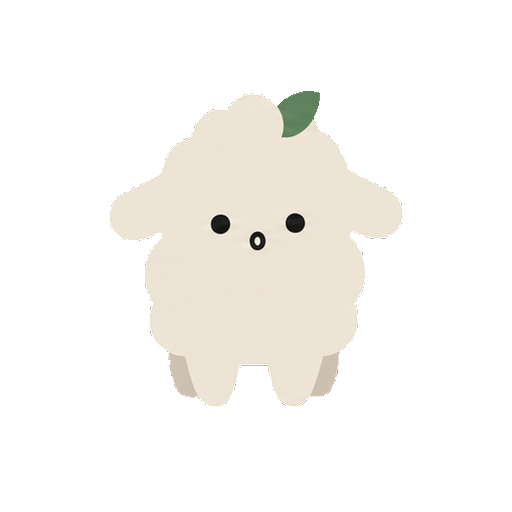
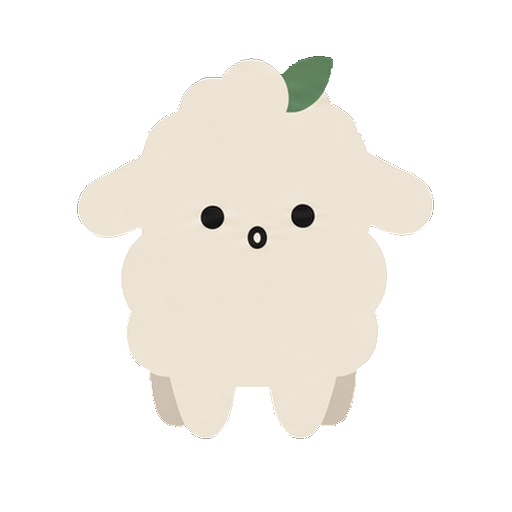
小綿助 v3 第二批：接上 Codex 交件的 10 個動作，21 個動作全部到齊
- 通知與操作：LINE 抱對話框、喝水、伸懶腰、服藥拍鬧鐘、分心望遠鏡、專注看書、大屏舉看板、記事便利貼
- 待機時每 12～25 秒隨機眨眼或改作業
- install_frames.py：會變形的動作改對齊 idle 的眼睛／葉子大小（不再用全體中位數，加新動作不會讓 drag／sleep／peek 跟著變）
- 網頁版動畫同步更新；About、Intro、README 補上第二批動作

Changed region(s): [[0.1562, 0.0938, 0.8438, 0.875], [0.375, 0.375, 0.5312, 0.5], [0.5625, 0.375, 0.625, 0.4688]]

diff --git a/Intro.html b/Intro.html
@@ -480,7 +480,7 @@
           <p class="pain">改作業改到一半又滑起手機，一抬頭一小時不見了。</p>
           <h3>桌面上真的會動、會看顧你的小夥伴</h3>
           <ul>
-            <li><strong>🐑 新畫風（v2.3 新）</strong>：小綿羊換成扁平可愛的新造型；開機揮手打招呼、逾期舉月曆、走到螢幕邊緣探頭。投影或全螢幕時自動睡覺，不跳泡泡、不亮紅點，學生看不到你的待辦</li>
+            <li><strong>🐑 新畫風（v2.3 新）</strong>：小綿羊換成扁平可愛的新造型；開機揮手打招呼、逾期舉月曆、走到螢幕邊緣探頭；LINE 新訊息抱對話框、喝水捧杯、起身伸懶腰、吃藥拍鬧鐘、分心拿望遠鏡、專注看書、大屏提示舉看板。投影或全螢幕時自動睡覺，不跳泡泡、不亮紅點，學生看不到你的待辦</li>
             <li><strong>💬 一眼看懂（v2.2 新）</strong>：真正的對話泡泡（有尾巴、會避開螢幕邊緣、附「打開／晚點」按鈕）、重要訊息不被蓋掉、頭上紅色數字＝逾期＋LINE 待整理、滑鼠停著看今日狀態、右鍵小選單一鍵喝水／專注／勿擾</li>
             <li><strong>🎙 按住說話、放開出字（v2.1 新）</strong>：任何程式裡按住右 Ctrl 說話，整理好的繁體中文貼到游標處；按住右 Alt 說給小綿助，直接變記事或任務。用同一把 🔑E Gemini 金鑰，選填 Groq 更快</li>
             <li><strong>直連你的 LINE 小幫手</strong>：不開瀏覽器也拿得到今日／逾期、LINE 待整理，新訊息會跳起來提醒</li>

diff --git a/About.html b/About.html
@@ -121,7 +121,7 @@
       </div>
 
       <div class="scene"><h4>🐑 小綿助換新衣：新畫風＋會看場合的動作（v2.3）<span class="where">桌面小綿助</span></h4>
-        <p>小綿羊換成<strong>扁平可愛的新畫風</strong>，網頁上的小綿助也一起換。動作會配合發生的事：開機時<strong>揮手打招呼</strong>、有逾期任務會<strong>舉著圈紅的月曆</strong>、走到螢幕邊緣會<strong>躲出去再探頭進來</strong>。下班時段或你在<strong>投影、全螢幕播影片</strong>時，牠會自己睡覺，不跳泡泡也不亮紅點，學生看不到你的待辦；離開全螢幕後，剛才的提醒才補給你看。</p>
+        <p>小綿羊換成<strong>扁平可愛的新畫風</strong>，網頁上的小綿助也一起換。動作會配合發生的事：開機時<strong>揮手打招呼</strong>、有逾期任務會<strong>舉著圈紅的月曆</strong>、走到螢幕邊緣會<strong>躲出去再探頭進來</strong>。LINE 有新訊息牠抱著綠色對話框、提醒喝水就捧起水杯、該起身就伸懶腰、吃藥時間拍鬧鐘、滑手機太久拿望遠鏡盯你、專注時段坐著看書、送出大屏提示就舉看板；閒著的時候還會眨眼、改作業。下班時段或你在<strong>投影、全螢幕播影片</strong>時，牠會自己睡覺，不跳泡泡也不亮紅點，學生看不到你的待辦；離開全螢幕後，剛才的提醒才補給你看。</p>
       </div>
 
       <div class="scene"><h4>🐑 一眼看懂小綿助在說什麼（v2.2）<span class="where">桌面小綿助</span></h4>

diff --git a/assets/version.js b/assets/version.js
@@ -1,5 +1,5 @@
 // 教師工作台網站版本（每次發布都要更新；各頁左下角會顯示）
-window.TD_VERSION = '2026-09-28 21:51';
+window.TD_VERSION = '2026-09-28 23:00';
 (function () {
   try {
     var el = document.createElement('div');

diff --git a/assets/pet/v3/install_frames.py b/assets/pet/v3/install_frames.py
@@ -10,7 +10,7 @@
 - 站姿動作：量奶油色身體（頭頂到身體底）的高度。眼睛大小在每次生成間
   會差 10～15%，用眼睛當尺會讓 idle 忽大忽小，所以站姿一律量身體。
 - 會變形的動作（spec 的 free_scale：drag、sleep、stretch、peek）：身體被拉長
-  或縮成一團，改用眼睛直徑（閉眼時用頭上葉子面積）換算成等效身高。
+  或縮成一團，改用眼睛直徑（閉眼時用頭上葉子面積）對齊 idle 的眼睛／葉子大小。
 
 輸出：assets/pet/frames/pet_<動作>/pet_<動作>_NN.png（512x512，alpha 只有 0／255）。
 由 Claude 維護；Codex 不需要執行。
@@ -183,10 +183,15 @@ def main() -> int:
         body = None if a.get("free_scale") else body_height(frames)
         info[a["name"]] = {"action": a, "frames": frames, "eye": eye, "leaf": leaf, "body": body, "box": union_bbox(frames)}
 
-    # 站姿動作的「身高／眼睛」「身高／葉子」比例，用來換算會變形的動作
+    # 會變形的動作要和「平常發呆的羊」眼睛、葉子一樣大，所以用 idle 的比例換算。
+    # （不用全體中位數：每加一批新動作，中位數就會變，drag／sleep／peek 會跟著忽大忽小）
+    ref = info.get("idle") if info.get("idle", {}).get("body") else None
     standing = [v for v in info.values() if v["body"]]
-    body_per_eye = statistics.median([v["body"] / v["eye"] for v in standing if v["eye"]] or [17.0])
-    body_per_leaf = statistics.median([v["body"] / v["leaf"] for v in standing if v["leaf"]] or [8.5])
+    if ref and ref["eye"] and ref["leaf"]:
+        body_per_eye, body_per_leaf = ref["body"] / ref["eye"], ref["body"] / ref["leaf"]
+    else:
+        body_per_eye = statistics.median([v["body"] / v["eye"] for v in standing if v["eye"]] or [17.0])
+        body_per_leaf = statistics.median([v["body"] / v["leaf"] for v in standing if v["leaf"]] or [8.5])
     for v in info.values():
         if v["body"]:
             v["size"], v["ruler"] = v["body"], "身體"

diff --git a/desktop_pet_secretary.py b/desktop_pet_secretary.py
@@ -642,6 +642,7 @@ class SecretaryPet(DesktopPetPreview):
         self.root.after(8000, self._cloud_tick)
         self.root.after(2500, self._focus_tick)
         self.root.after(3000, self._rest_tick)
+        self.root.after(15_000, self._idle_variety_tick)
         self.root.after(1500, self._mouse_tick)
         # ---- v2.1：會聽的小綿助 ----
         self.voice = VoiceEngine()
@@ -1643,6 +1644,24 @@ class SecretaryPet(DesktopPetPreview):
             pass
         try:
             self.root.after(3000, self._rest_tick)
+        except tk.TclError:
+            pass
+
+    def _idle_variety_tick(self) -> None:
+        """待機時偶爾眨眼、改作業，看起來比較有生命感。"""
+        try:
+            calm = (self.state == "idle" and not self.walking and not self.drag_origin and not self.paused
+                    and not self.rest_reason and self.notices.current is None and self.cuddle_target is None)
+            if calm:
+                roll = random.random()
+                if roll < 0.55 and self.has_state("idle_blink"):
+                    self.play("idle_blink", 1, "idle")
+                elif roll < 0.8 and self.has_state("idle_grade"):
+                    self.play("idle_grade", 2, "idle")
+        except Exception:  # noqa: BLE001 - 裝飾動作失敗不能影響桌寵
+            pass
+        try:
+            self.root.after(random.randint(12_000, 25_000), self._idle_variety_tick)
         except tk.TclError:
             pass
 

diff --git a/README.md b/README.md
@@ -21,7 +21,7 @@
 - 本機 AI 輔助介面與去識別化提醒（需自行設定 Gemini API 金鑰）；AI 行政助理把情境拆成任務／記事並抓日期時間，任務先進「草稿板」由老師拖曳決定主／子再一次建立；原文／附件中的網址自動寫入任務連結，點任務名稱可看完整說明與來源附件
 - 📮 訊息整合站：LINE 群組訊息整段貼上，AI 拆條分類（轉達學生／家長／科任／自己待辦），勾選後整合成一則訊息
 - 🎨 教材小工場（`Studio.html`）：學習單、作文引導單（含感官觀察四頁組）、作文批改（會考六級分、逐段批改與修改指引）、段考複習講義、閱讀分級改寫（可抓兒童適讀國際時事）、圖像簡報（每頁一張 Gemini 圖的 16:9 簡報，大綱→樣張→逐頁生成→單一 PDF）、心智圖、家長通知單／海報／LINE 圖文選單（Gemini 生圖）、Google 表單、座位表、敏感資料遮蔽、PDF 工具；選檔支援拍照／貼上，產出可下載 Word／Excel／PDF
-- Windows 桌面小綿助：今日、逾期、待追蹤、記事、附件整理、喝水、起身與服藥提醒；v2.0 直連 LINE 小幫手、分心提醒、專注模式；v2.2 資訊顯示改版（浮動對話泡泡＋分級排隊、紅色角標、滑鼠停留狀態卡、自繪右鍵小選單、勿擾、通知紀錄）；v2.3 新畫風（開機打招呼、逾期舉月曆、螢幕邊緣探頭；下班或投影／全螢幕時自動睡覺並暫停泡泡與紅點；美術規格與 Codex 交件流程見 `assets/pet/v3/`）；v2.1 語音輸入（按住右 Ctrl 說話、放開貼到游標處；按住右 Alt 說給小綿助變記事／任務；Gemini 🔑E 或選填 Groq，音檔只送官方 API、不存檔）
+- Windows 桌面小綿助：今日、逾期、待追蹤、記事、附件整理、喝水、起身與服藥提醒；v2.0 直連 LINE 小幫手、分心提醒、專注模式；v2.2 資訊顯示改版（浮動對話泡泡＋分級排隊、紅色角標、滑鼠停留狀態卡、自繪右鍵小選單、勿擾、通知紀錄）；v2.3 新畫風，共 21 個動作（開機打招呼、逾期舉月曆、螢幕邊緣探頭；LINE／喝水／起身／服藥／分心／專注／大屏提示／記事各有專屬動作，待機會眨眼、改作業；下班或投影／全螢幕時自動睡覺並暫停泡泡與紅點；美術規格與 Codex 交件流程見 `assets/pet/v3/`）；v2.1 語音輸入（按住右 Ctrl 說話、放開貼到游標處；按住右 Alt 說給小綿助變記事／任務；Gemini 🔑E 或選填 Groq，音檔只送官方 API、不存檔）
 - JSON 備份與還原
 - LINE 小幫手（選用）：在 LINE 傳文字、語音或照片，經工作台「LINE 收件匣」確認後建立任務或記事；可查今日進度、產生聯絡簿公告、接收晨間簡報。安裝方式見 [LINE_BOT_INSTALL.md](LINE_BOT_INSTALL.md)
 - 晨間大屏（選用）：`Morning.html` 教室觸控頁，以座號完成點名（病假／事假／遲到／未到）與各科作業繳交登記（已交綠／缺交紅／補交藍），送出即推播老師 LINE，並提供分科天數統計查詢；工作台日曆同步顯示每日出缺與缺交摘要
